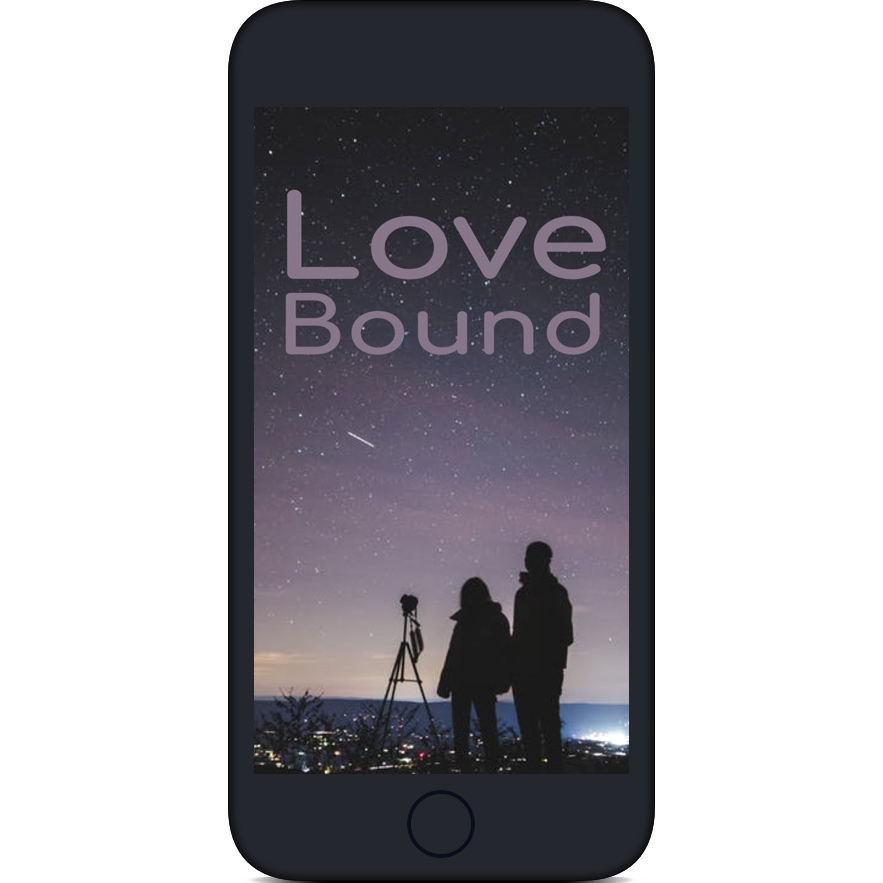
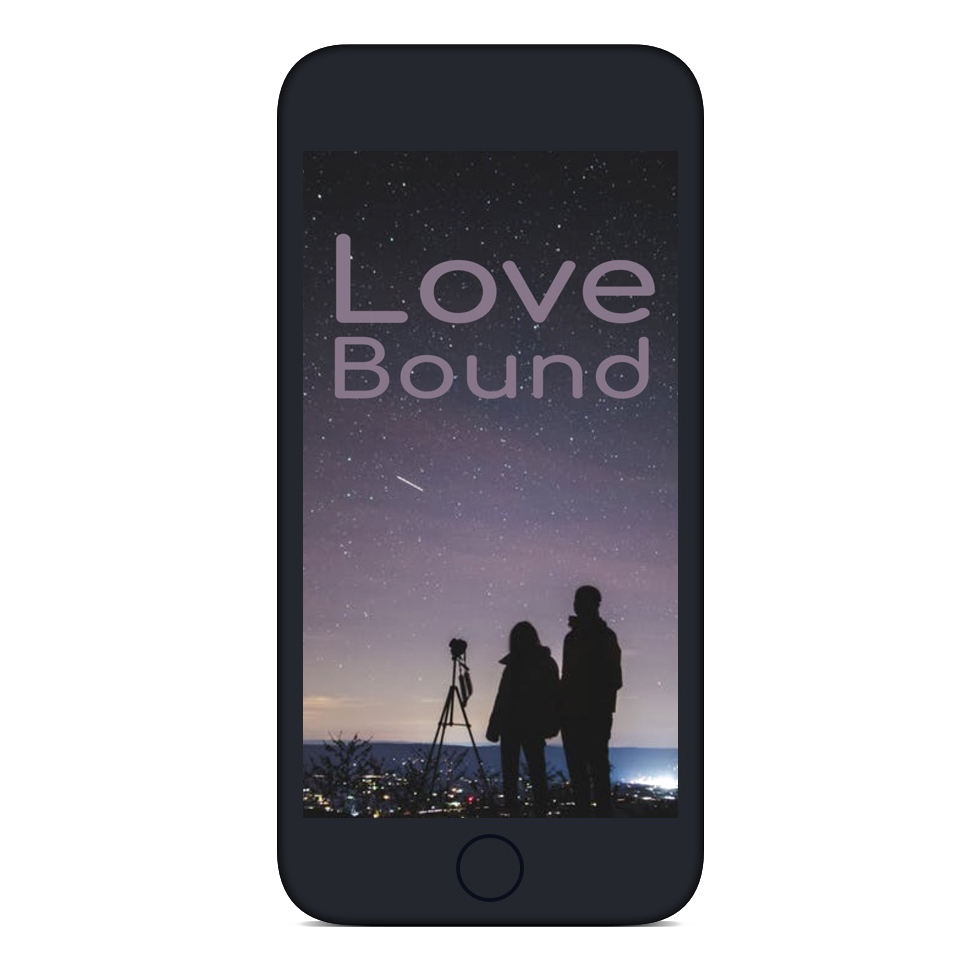
finishing touches

Changed region(s): [[0.2446, 0.0, 0.7644, 1.0], [0.3975, 0.4892, 0.4281, 0.5198]]

diff --git a/projects/scheduleR.html b/projects/scheduleR.html
@@ -21,6 +21,14 @@
         <script src="https://oss.maxcdn.com/html5shiv/3.7.3/html5shiv.min.js"></script>
         <script src="https://oss.maxcdn.com/respond/1.4.2/respond.min.js"></script>
         <![endif]-->
+
+        <style>
+
+            .project-hero-layout > div:first-child {
+
+                max-height: 200px;
+            }
+        </style>
     </head>
 
     <body>
@@ -248,7 +256,7 @@
                     <h3 class="nice-font-style" style="margin-top:45px; margin-bottom: 25px">Market Analysis & Blue Ocean</h3>
                     <img class="img-responsive" src="../img/Final/business_analysis_final.jpg" alt="scheduleR market research and blue ocean graph" style="max-width:800px;width:100%;margin:auto;" />
                     <p>
-                        Becasue I have never worked in a medical office I needed to understand what the market was like and what were the feaures the competitors included
+                        Because I have never worked in a medical office I needed to understand what the market was like and what were the feaures the competitors included
                         and why they had those features. I created a feature comparison chart to put these features into percpective and see what the mental models of the user were. I then created a market positioning map to 
                         get a grasp of where the blue ocean was in the market.
                     </p>
@@ -259,12 +267,7 @@
                 <div class="content-block col-sm-12">
 
                     <h1 class="size-50">Research & Discovery</h1>
-                    <!-- <p>
-                        Lorem ipsum dolor sit amet, consectetur adipiscing
-                        elit, sed do eiusmod tempor incididunt ut labore et dolore magna aliqua. Ut
-                        enim ad minim veniam, quis nostrud exercitation ullamco laboris nisi ut aliquip
-                        ex ea commodo consequat. Duis aute irure dolor in reprehenderit in voluptate velit esse
-                    </p> -->
+
 
                     <h3 class="nice-font-style" style="margin-top:45px; margin-bottom: 25px">Qualitative Analysis</h3>
                     <div class="row horizontal-section-with-larger-vertically-centered-text">
@@ -284,11 +287,20 @@
                     </div>
 
                     <h3 class="nice-font-style" style="margin-top:45px; margin-bottom: 25px">Synthesizing the Data</h3>
-                    <img class="img-responsive" src="../img/Final/affinity_mapping.jpeg" alt="ScheduleR synthesis of data via affinity mapping" style="max-width:600px;width:100%;margin:auto;"/>
-                    <p>
-                        Using an affinity map I sorted through all the data collected. The major pain points were around the complexity of each taks.
-                        Another pain point was with the time comsumption around each task. The initial assumptions from ScheduleR were starting to become valid. 
-                    </p>
+                    <div class="row horizontal-section-with-vertically-centered-text" style="height: 450px">
+
+                        <div class="col-sm-6">
+
+                            <img class="img-responsive" src="../img/Final/affinity_mapping.jpeg" alt="ScheduleR synthesis of data via affinity mapping"/>
+                        </div>
+                        <div class="col-sm-6 the-section-with-vertically-centered-text">
+
+                            <p>
+                                Using an affinity map I sorted through all the data collected. The major pain points were around the complexity of each task.
+                                Another pain point was with the time consumption around each task. The initial assumptions from ScheduleR were starting to become valid. 
+                            </p>
+                        </div>
+                    </div>
 
                     <h3 class="nice-font-style" style="margin-top:45px; margin-bottom: 25px">Creating a Point of View</h3>
                     <div class="row">
@@ -302,10 +314,10 @@
                             <img class="img-responsive" src="../img/Final/Journey-Map-Style.jpg" alt="persona" />
                         </div>
                     </div>
-                    <p>
+                    <p style="margin-top:25px">
                         The persona was based around the front desk associates that used the exisiting platform already. I created the persona
                         with the characteristics of those associates in mind. The habits and out-of-work life were also integrated into the persona. I placed the persona into a user journey 
-                        that would allow me to observe their pain points in action. 
+                        that would allow me to observe her pain points in action. 
                     </p>
                 </div>
                 <!-- ./Research & Discovery Section -->
@@ -324,7 +336,7 @@
 
                     <h3 class="nice-font-style" style="margin-top:45px; margin-bottom: 25px">Minimum Viable Product</h3>
                     <img class="img-responsive" src="../img/Final/feature_final_mvp.jpg" alt="ScheduleR minimum viable product identification" style="max-width:600px;width:100%;margin:auto;" />
-                    <p>
+                    <p style="margin-top:25px">
                         The MVP was defined using the MoSCoW method and an impact vs. effort chart. Since one of the developers of the software assisted me throughout the 
                         design process I had a multiple perspectives on what would be high or low effort on the business. I also validated the solutions with some users to make sure we were on track for truly helping them. Through this process
                         we were able to determine what the key distinguishing feature would be: a HIPPA compliant instant messaging platform that would connect multiple medical offices across various specialties.
@@ -342,7 +354,7 @@
                             <img class="img-responsive" src="../img/Final/user_flow_final.jpg" alt="ScheduleR user flow" />
                         </div>
                     </div>
-                    <p>
+                    <p style="margin-top:25px">
                         The sitemap was done because we needed to define every page that needed to be redesigned. The user flow was done only for the happy path of the 
                         key distinguishing feature. We wanted to validate the efficiency of the user flow when it comes to the referral process. 
                     </p>
@@ -356,14 +368,14 @@
 
                     <h3 class="nice-font-style" style="margin-top:45px; margin-bottom: 25px">Low Fidelity Wireframes</h3>
                     <img class="img-responsive" src="../img/Final/low_fi_final.jpeg" alt="ScheduleR lofi wireframe testing" style="max-width:600px;width:100%;margin:auto;" />
-                    <p>
+                    <p style="margin-top:25px">
                         The referral flow needed to be validated with the user base. So we sketched up some possible concepts and went to the doctor's office to put it to the test with real users. 
                         They gave resistance to the buttons being in the chat area so we took that out in the mid-fi phase. They also felt like it was on the verge of being too crowded. 
                     </p>
 
                     <h3 class="nice-font-style" style="margin-top:45px; margin-bottom: 25px">Mid Fidelity Wireframes</h3>
                     <img class="img-responsive" src="../img/Final/Mid-fi_final_img.png" alt="ScheduleR midfi wireframe testing" style="max-width:600px;width:100%;margin:auto;" />
-                    <p>
+                    <p style="margin-top:25px">
                         During this phase we found that most users prefered to send referrals via one path and it wasn't obvious to them that
                         there was another way to send referrals.
                     </p>
@@ -378,7 +390,7 @@
 
                     <h3 class="nice-font-style" style="margin-top:45px; margin-bottom: 25px">Style Guide</h3>
                     <img class="img-responsive" src="../img/Final/Style_Guide_final.jpg" alt="ScheduleR style guide and style tiles" style="max-width:600px;width:100%;margin:auto;" />
-                    <p>
+                    <p style="margin-top:25px">
                         The company wanted blue and red because their brand already established those colors in their identity. However I was able to add in some more colors to their pallet. 
                         I also chose a typeface that would be simple and quick to read. Overall the desirablity tests showed that we were right on track with our brand attributes.
                     </p>

diff --git a/projects/abc-market.html b/projects/abc-market.html
@@ -21,6 +21,26 @@
         <script src="https://oss.maxcdn.com/html5shiv/3.7.3/html5shiv.min.js"></script>
         <script src="https://oss.maxcdn.com/respond/1.4.2/respond.min.js"></script>
         <![endif]-->
+
+        <style>
+
+            @media screen and ( max-width: 768px ){
+
+                .project-hero-layout > div:first-child {
+
+                    max-height: 225px;
+                }
+                .project-hero-layout > div:nth-child( 2 ) {
+
+                    padding-top: 0px !important;
+                }
+                .custom-no-margin {
+
+                    margin-top: 0 !important;
+                    margin-bottom: 0;
+                }
+            }
+        </style>
     </head>
 
     <body>
@@ -62,15 +82,15 @@
 
                     <div>
 
-                        <h4>ecommerce app </h4>
-                        <h1>ABC<br />Market</h1>
+                        <h4 class="custom-no-margin">ecommerce app </h4>
+                        <h1 class="custom-no-margin">ABC<br />Market</h1>
                     </div>
                 </div>
                 <div data-aos="fade-up" data-aos-delay="500">
 
                     <div>
 
-                        <h3 style="margin-bottom:15px;">We had to innovate grocery shopping- fast</h3>
+                        <h3 style="margin-bottom:15px;" class="custom-no-margin">We had to innovate grocery shopping- fast</h3>
                         <h5>
                             With a team of 3 and a two week sprint the journey began. ABC Market needed to enter the 
                             technology arena so that it could compete with major players such as Amazon and Walmart. 
@@ -111,7 +131,7 @@
                                 <h4>understand client needs and objectives</h4>
                                 <p>
 
-                                    <strong>Where do we start</strong>
+                                    <strong>ABC Market is looking to enter into the ecommerce industry</strong>
                                     <br>
                                     <!-- Lorem ipsum dolor sit amet, consectetur adipiscing elit, sed do eiusmod tempor incididunt ut labore et dolore magna aliqua. Ut enim ad minim veniam, quis nostrud exercitation -->
                                 </p>
@@ -129,7 +149,7 @@
                                 <h4>understanding the user</h4>
                                 <p>
 
-                                    <strong>Learn their motivations, pain-points, and habits</strong>
+                                    <strong>Learn the motivations, pain-points and habits of grocery shoppers</strong>
                                     <br>
                                     <!-- lLorem ipsum dolor sit amet, consectetur adipiscing elit, sed do eiusmod tempor incididunt ut labore et dolore magna aliqua. Ut enim ad minim veniam, quis nostrud exercitation -->
                                 </p>
@@ -289,13 +309,10 @@
                         of those relationships were cast in a negative and tedious light.
                     </p>
 
-                    
-                    <img class="img-responsive" src="../img/abc/Qual-data.png" alt="abc market qualitative data" />
-                    
+                    <img class="img-responsive image-responsivity-class" src="../img/abc/qual_abc.png" alt="abc market qualitative data" style="max-width:1000px"/>
 
-
-                    <h3 class="nice-font-style" style="margin-top:45px;">Affinity Map</h3>
-                    <img class="img-responsive" src="../img/abc/AFFINITY-ABC.png" alt="abc market affinity map" />
+                    <h3 class="nice-font-style" style="margin-top:45px;margin-bottom:25px;">Synthesizing the Data</h3>
+                    <img class="img-responsive image-responsivity-class" src="../img/abc/AFFINITY-ABC.png" alt="abc market affinity map" style="max-width:1000px"/>
                     <p style="margin-top:25px;">
                         The data gathered was synthesized using many methodologies. The method I found to be most useful was the affinity map.
                          The affinity map grouped related data and allowed our team to spot any trends in the data. 
@@ -361,23 +378,13 @@
                 </div>
                 <!-- ./The Solution Section -->
 
-                <!-- The Flow Section -->
+                <!-- The User Interface Section -->
                 <div class="content-block col-sm-12">
 
-                    <h1 class="size-50">The Flow</h1>
+                    <h1 class="size-50">User Interface</h1>
 
                     <h3 class="nice-font-style" style="margin-top:45px; margin-bottom: 25px">Low Fidelity Wireframes</h3>
-                    <div class="row">
-
-                        <div class="col-sm-6">
-
-                            <img class="img-responsive" src="../img/abc/user_flow.png" alt="abc market user flow" />
-                        </div>
-                        <div class="col-sm-6">
-
-                            <img class="img-responsive" src="../img/abc/lofi_concept.png" alt="abc market lofi concept sketches" />
-                        </div>
-                    </div>
+                    <img class="img-responsive image-responsivity-class" src="../img/abc/lofi_concept.png" alt="abc market lofi concept sketches" style="max-width: 550px" />
                     <p style="margin-top:45px;">
                         We time boxed ourselves and did a couple rounds of crazy 8. 
                         Crazy 8 is where a timer is set for 8 minutes and each individual must 
@@ -388,7 +395,7 @@
 
 
                     <h3 class="nice-font-style" style="margin-top:45px; margin-bottom: 35px">Style Tile</h3>
-                    <img class="img-responsive" src="../img/abc/Style_Tile.png" alt="abc market style tile" style="max-width:650px;margin:auto;width:100%;" />
+                    <img class="img-responsive image-responsivity-class" src="../img/abc/Style_Tile.png" alt="abc market style tile" />
                     <p style="margin-top:45px;">
                         The UI for ABC Market had to reflect the premium shopping experience. They needed to stand out from the 
                         rest as they do with their brick and mortar stores. The color orange was chosen for it’s 
@@ -401,7 +408,7 @@
 
                     <h3 class="nice-font-style" style="margin-top:55px; margin-bottom: 35px">High Fidelity Wireframes</h3>
                     <img class="img-responsive" src="../img/abc/abc hifiii.jpg" alt="abc market hifi prototypes" />
-                    <p>
+                    <p style="margin-top:35px">
                         Finally- the end product an e-commerce app for ABC Market. 
                         During testing we found some issues where the user felt like the 
                         “set & forget” feature needed to take less time. We started off with 
@@ -410,7 +417,7 @@
                         The “set and forget” feature was not ready for hand off.
                     </p>
                 </div>
-                <!-- ./The Flow Section -->
+                <!-- ./The User Interface Section -->
 
                 <!-- Conclusion Section -->
                 <div class="content-block col-sm-12">
@@ -433,8 +440,8 @@
                         ex ea commodo consequat. Duis aute irure dolor in reprehenderit in voluptate velit esse
                     </p>
                 </div>
-                <!-- ./After Thoughts Section -->
-            </div> -->
+                ./After Thoughts Section -->
+            </div>
             <!-- end content 'container' class -->
         </div>
         <!-- ./main-content -->

diff --git a/projects/love-bound.html b/projects/love-bound.html
@@ -254,7 +254,11 @@
                 <div class="content-block col-sm-12">
 
                     <h1 class="size-50">Business Analysis</h1>
-                    <p>
+
+
+                    <h3 class="nice-font-style" style="margin-top:45px; margin-bottom: 25px">Market Analysis & Blue Ocean</h3>
+                    <img class="img-responsive image-responsivity-class" src="../img/wellness/wellness_bussiness_analysis.jpg" alt="love bound competetive analysis" style="max-width: 1000px"/>
+                    <p style="margin-top:25px">
                         For this project, the app idea needed to be 
                         validated against the market. The first step was 
                         to see what other apps existed in this industry that 
@@ -276,27 +280,7 @@
                         has explored. Being that Love Bound doesn’t actually exist yet the first
                         priority was to get it on the market and moving rapidly toward that blue
                         ocean.
-
                     </p>
-
-                    <h3 class="nice-font-style" style="margin-top:45px; margin-bottom: 25px">Market Analysis & Blue Ocean</h3>
-                    <div class="row">
-
-                        <div class="col-sm-6">
-
-                            <img class="img-responsive" src="../img/wellness/wellness_bussiness_analysis.jpg" alt="love bound competetive analysis" />
-                        </div>
-                        <div class="col-sm-6">
-
-                            <!-- <img class="img-responsive" src="../img/wellness/market_map.png" alt="love bound market map and blue-ocean territory" /> -->
-                        </div>
-                    </div>
-                    <!-- <p>
-                        Lorem ipsum dolor sit amet, consectetur adipiscing
-                        elit, sed do eiusmod tempor incididunt ut labore et dolore magna aliqua. Ut
-                        enim ad minim veniam, quis nostrud exercitation ullamco laboris nisi ut aliquip
-                        ex ea commodo consequat. Duis aute irure dolor in reprehenderit in voluptate velit esse
-                    </p> -->
                 </div>
                 <!-- ./Business Analysis Section -->
 
@@ -305,10 +289,9 @@
 
                     <h1 class="size-50">Research & Discovery</h1>
 
-
                     <h3 class="nice-font-style" style="margin-top:45px; margin-bottom: 25px">Qualitative & Quantitative Data</h3>
-                    <img class="img-responsive" src="../img/wellness/Data_img_wellness.jpg" alt="love bound qualitative and quantitative data chart" style="max-width:600px;width:100%;margin:auto"/>
-                    <p>
+                    <img class="img-responsive image-responsivity-class" src="../img/wellness/Data_img_wellness.jpg" alt="love bound qualitative and quantitative data chart" style="max-width:700px"/>
+                    <p style="margin-top:25px">
                         The user research was my favorite part of this project. 
                         I was able to connect with many people and listen to their 
                         stories. I sent out surveys and received 102 responses. I also
@@ -319,7 +302,7 @@
 
                     <h3 class="nice-font-style" style="margin-top:45px; margin-bottom: 25px">Converging</h3>
                     <img class="img-responsive" src="../img/wellness/Affinity_map.png" alt="love bound affinity map" style="max-width:600px;width:100%;margin:auto" />
-                    <p>
+                    <p style="margin-top:25px">
                         Synthesizing the data was done with an affinity map. I 
                         gathered information, grouped the information, and spotted 
                         any trends or patterns. I found that many of the triggers 
@@ -345,7 +328,7 @@
                             <img class="img-responsive" src="../img/wellness/user_journey.png" alt="love bound journey map" />
                         </div>
                     </div>
-                    <p>
+                    <p style="margin-top:25px">
                         Using the data I created a persona that would represent the target market the app 
                         would serve. The persona is based on the “average user” or the couples already 
                         interested in strengthening their relationship on their own accord. 
@@ -379,8 +362,6 @@
                                 the center- since this is user centered design. We chose three of the 
                                 major issues found in the research phase and we created how might we 
                                 statements. This guided our brainstorming session.
-
-
                             </p>
                         </div>
                         <div class="col-sm-6">
@@ -391,7 +372,7 @@
 
 
                     <h3 class="nice-font-style" style="margin-top:55px; margin-bottom: 25px">Minimum Viable Product</h3>
-                    <img class="img-responsive" src="../img/wellness/feature_wellness_mvp_1.jpg" alt="love bound minimum viable product ( mvp )" style="max-width:600px;width:100%;margin:auto;"/>
+                    <img class="img-responsive image-responsivity-class" src="../img/wellness/feature_wellness_mvp_1.jpg" alt="love bound minimum viable product ( mvp )" style="max-width:750px"/>
                     <p>
                         Now, we needed to converge. After coming up with a lot of solutions 
                         we needed to filter them. For the feature prioritization process 
@@ -410,7 +391,7 @@
 
                     <h3 class="nice-font-style" style="margin-top:45px; margin-bottom: 25px"></h3>
                     <img class="img-responsive" src="../img/wellness/user_flow.png" alt="love bound user persona" style="max-width:600px;width:100%;margin:auto"/>
-                    <p>
+                    <p style="margin-top:25px;">
                         The flow for the key distinguishing feature needed 
                         to be extremely quick because the KDF would be a tool 
                         they could use while they were experiencing an emotional 
@@ -431,7 +412,7 @@
 
                     <h3 class="nice-font-style" style="margin-top:45px; margin-bottom: 25px">Low Fidelity Wireframes</h3>
                     <img class="img-responsive" src="../img/wellness/lofi.jpg" alt="love bound low fidelity wireframes" style="max-width:600px;width:100%;margin:auto"/>
-                    <p>
+                    <p style="margin-top:25px;">
                         After the flow was determined the low fidelity wireframes 
                         gave us version one of what the app would look like. To 
                         determine the placement of the content I used the crazy 8 

diff --git a/css/style.css b/css/style.css
@@ -838,6 +838,13 @@ fieldset {
     align-items: center;
 }
 
+.image-responsivity-class {
+
+    width: 100%;
+    margin: auto;
+    max-width: 650px;
+}
+
 .abc-background-image {
 
     background: url(../img/abc/abc_hero.jpg);
